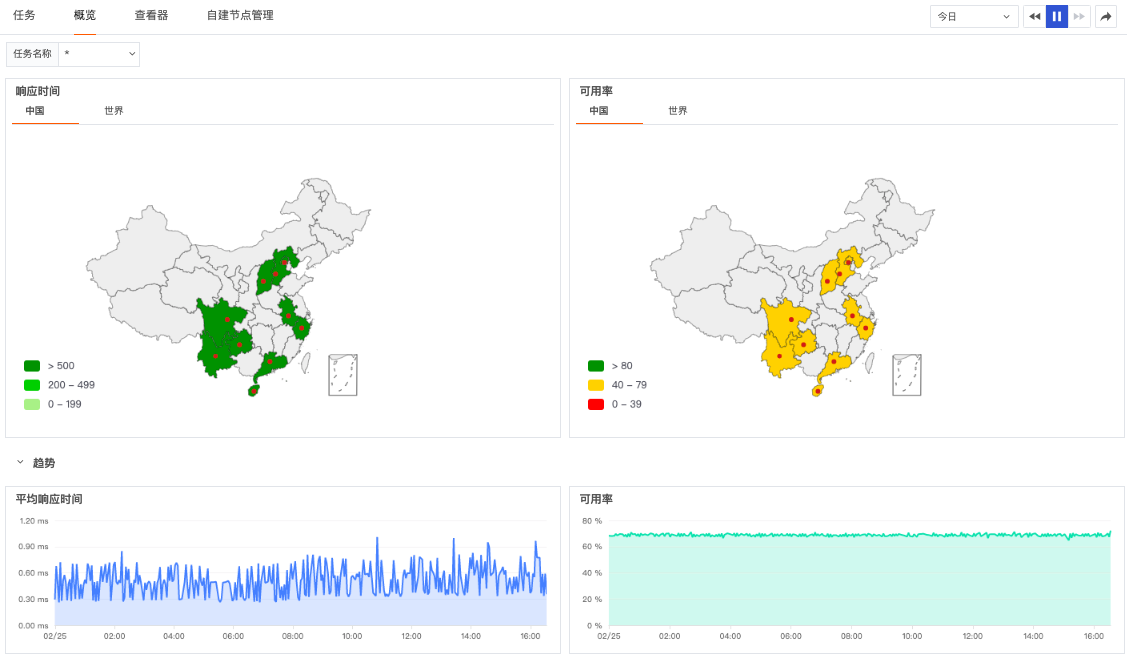
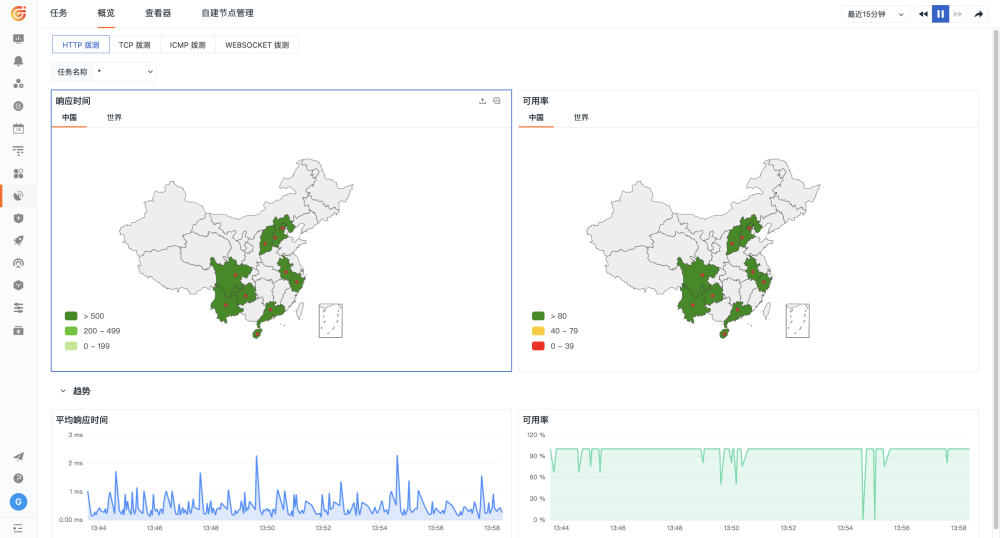
快速入门_可用性监测更新

diff --git a/docs/getting-started/basic-introduction/website-monitoring.md b/docs/getting-started/basic-introduction/website-monitoring.md
@@ -1,11 +1,11 @@
-# 网络可观测
+# 网络站点可用性观测
 ---
 
 ## 简介
 
-您是否还在为无法提前感知用户访问体验而烦恼？您是否由于低质量的网站可用性而流失用户？随着用户访问环境场景变得多样化，如何获取应用的真实用户体验，以及用户体验下降时及时预警进行处理至关重要。<br />为了帮助您主动发现用户的体验问题，预先感知网络站点的错误，“观测云” 为您提供了开箱即用的可用性监测解决方案。利用可覆盖全球的监控网络，通过API 拨测快速实现网络站点的可用性监测，您可以结合地域、运营商、时间等维度，周期性的对URL站点质量进行监测，先于用户挖掘站点的潜在问题，并及时定位问题产生原因。
+您是否还在为无法提前感知用户访问体验而烦恼？您是否由于低质量的网站可用性而流失用户？随着用户访问环境场景变得多样化，如何获取应用的真实用户体验，以及用户体验下降时及时预警进行处理至关重要。
 
-API 拨测是对基于`HTTP` 协议下的网站、域名、后台接口等进行周期的可用性监测。通过对站点的实时监测，统计其可用情况，提供拨测日志和实时告警，帮助您快速发现网络问题，提高网络访问质量。
+为了帮助您主动发现用户的体验问题，预先感知网络站点的错误，“观测云” 为您提供了开箱即用的可用性监测解决方案。利用可覆盖全球的监控网络，基于`HTTP、TCP、ICMP、WEBSOCKET`等不同协议的拨测任务，可快速实现网络站点的可用性监测，您可以结合地域、运营商、时间等维度，周期性的对URL站点质量进行实时监测，统计其可用情况，先于用户挖掘站点的潜在问题，并及时定位问题产生原因。
 
 ## 前置条件
 
@@ -15,18 +15,18 @@ API 拨测是对基于`HTTP` 协议下的网站、域名、后台接口等进行
 
 ### Step 1: 创建拨测任务
 
-在观测云工作空间「可用性监测」，点击「新建」即可新建API拨测任务，周期性的监控基于`HTTP` 协议下的网站、域名、后台接口等，探测各地区用户选取不同运营商到各个服务接入点的性能状况和用户体验情况。
+在观测云工作空间「可用性监测」，点击「新建」即可创建基于`HTTP、TCP、ICMP、WEBSOCKET`等不同协议的拨测任务，周期性的监控相关网站、域名、后台接口等，探测各地区用户选取不同运营商到各个服务接入点的性能状况和用户体验情况。
 
 **注意：**
 
 - 仅支持当前空间管理员「新建」拨测任务，其他空间成员仅支持名称、域名、类型、任务状态的信息查看等。
-- 免费版工作空间最多可创建 5 个拨测任务，且仅支持“中国区”拨测节点的使用，如需创建更多拨测任务或使用更多的国外拨测节点，请前往空间内「付费计划与账单」页面进行升级。
+- 免费版工作空间最多可创建 5 个拨测任务，且仅支持“中国区”拨测节点的使用，如需创建更多拨测任务或使用更多的国外拨测节点，请前往空间内「付费计划与账单」或观测云官网的「[价格](https://www.dataflux.cn/billing)」页面进行升级。
 
 ### Step 2: 自定义拨测任务
 
-进入新建「API拨测」任务后，您可以自由配置您的周期性探测需求，包括：
+基于您周期性的探测需求，您可以自定义拨测任务内容，包括：
 
-- 选择拨测类型：目前支持 `HTTP` 协议请求；
+- 选择拨测类型：目前支持 `HTTP、TCP、ICMP、WEBSOCKET`的 协议请求；
 - 定义请求格式：输入URL，包括四种请求方式 `GET`、`POST`、`PUT` 和 `HEAD`；
 
 ![](../img/w1.png)
@@ -41,13 +41,13 @@ API 拨测是对基于`HTTP` 协议下的网站、域名、后台接口等进行
 ![](../img/w3.png)
 
 - 选择拨测节点：目前观测云 在全球已覆盖16个节点，支持选择中国地区、海外地区（仅支持商业版及以上版本用户）的一个或多个节点，，快速开启站点的服务质量监测。
-- 选择拨测频率：选择云拨测的数据返回频率，支持1分钟（仅支持商业版及以上版本用户）、5分钟（仅支持商业版及以上版本用户）、15分钟（仅支持商业版及以上版本用户）、30分钟、1小时、6小时、12小时、1天等8种选择
+- 选择拨测频率：选择云拨测的数据返回频率，支持1分钟（仅支持商业版及以上版本用户）、5分钟（仅支持商业版及以上版本用户）、15分钟（仅支持商业版及以上版本用户）、30分钟、1小时、6小时、12小时、1天等8种选择。
 
-### Step 2: 查看站点的可用性状态
+### Step 3: 查看站点的可用性状态
 
 基于已选的检测频率，在配置完成后等待完成第一次检测（一个检测周期的时间），即可通过「概览」和「查看器」查看不同拨测任务对应的站点可用性数据。**例如：您选择监测频率为“1h”, 配置完成后等待1-2个小时，即可查看相关数据**
 
-首先，通过「概览」，您可以通过从地区、城市、运营商等多个维度组合分析站点的可用率和响应时间，结合丰富的可视化数据分析体系，如地图，折线图，时序图等实时图表，切换上方「时间组<br />件」，您可以快速分析出变化趋势、分布等。
+首先，通过「概览」，您可以通过从地区、城市、运营商等多个维度组合分析站点的可用率和响应时间，结合丰富的可视化数据分析体系，如地图，折线图，时序图等实时图表，切换上方「时间组件」，您可以快速分析出变化趋势、分布等。
 
 ![](../img/w4.png)
 
@@ -59,7 +59,9 @@ API 拨测是对基于`HTTP` 协议下的网站、域名、后台接口等进行
 
 ### 自建节点
 
-观测云 支持通过「自建节点管理」快速建立分布于全球的私有部署节点，操作详情可参考[自建节点管理](../../usability-monitoring/self-node.md)，具体部署文档可参考 [网络拨测](../../integrations/dialtesting.md) 。<br />观测云平台支持在全球范围内自建新的拨测节点，即通过「自建节点管理」您可以基于地理位置和运营商自建探测节点，对内/外网的服务站点进行可用性监测。如若您需要对企业内网进行云拨测，您需要在可访问内网环境的服务器上部署datakit并配置您的私有部署节点。如若您需要对公网站点进行云拨测，无需特殊操作。
+观测云 支持通过「自建节点管理」快速建立分布于全球的私有部署节点，操作详情可参考[自建节点管理](../../usability-monitoring/self-node.md)，具体部署文档可参考 [网络拨测](../../integrations/dialtesting.md) 。<br />
+
+观测云平台支持在全球范围内自建新的拨测节点，即通过「自建节点管理」您可以基于地理位置和运营商自建探测节点，对内/外网的服务站点进行可用性监测。如若您需要对企业内网进行云拨测，您需要在可访问内网环境的服务器上部署datakit并配置您的私有部署节点。如若您需要对公网站点进行云拨测，无需特殊操作。
 
 以增加如下节点为例：
 
@@ -72,8 +74,7 @@ API 拨测是对基于`HTTP` 协议下的网站、域名、后台接口等进行
 
 ![](../img/w6.png)
 
-2.完成「新建节点」后，在「自建节点管理」的列表中获取该节点的「配置信息」
-## 
+2.完成「新建节点」后，在「自建节点管理」的列表中获取该节点的「配置信息」。
 ![](../img/w7.png)
 
 3.依据以上获取的配置信息，在具备节点能力的服务器中完成拨测节点的安装。
